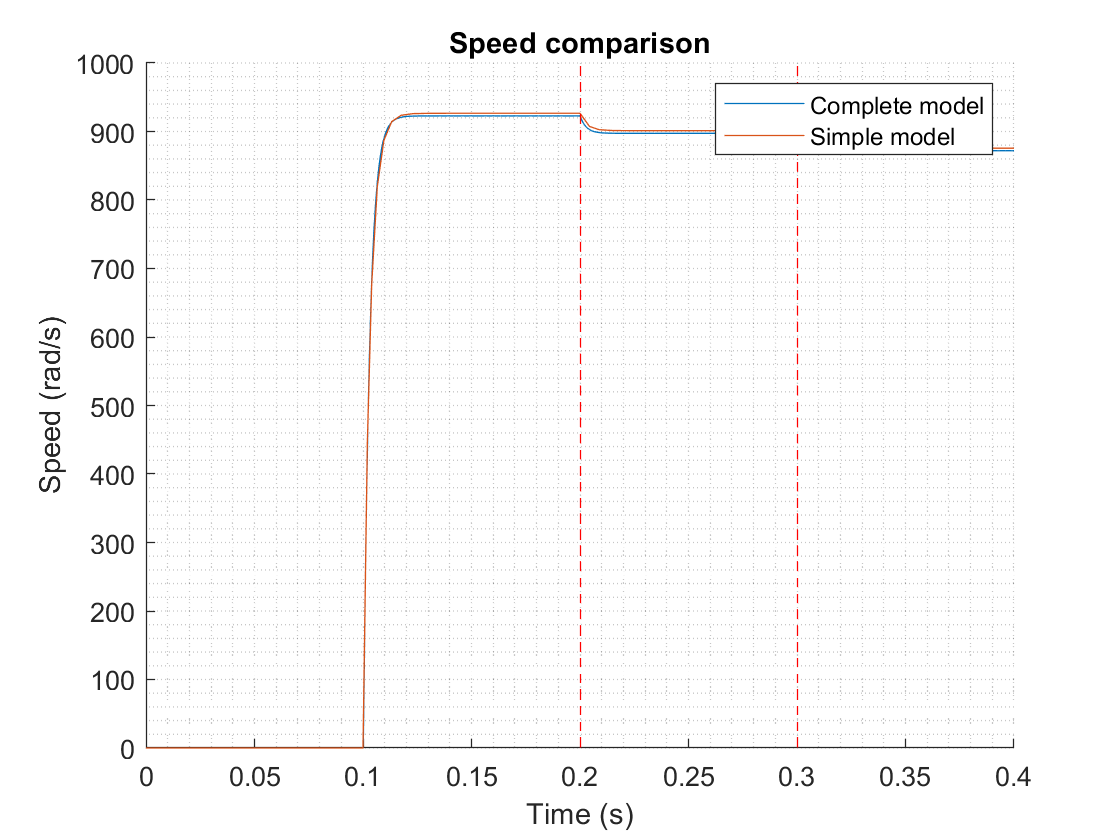
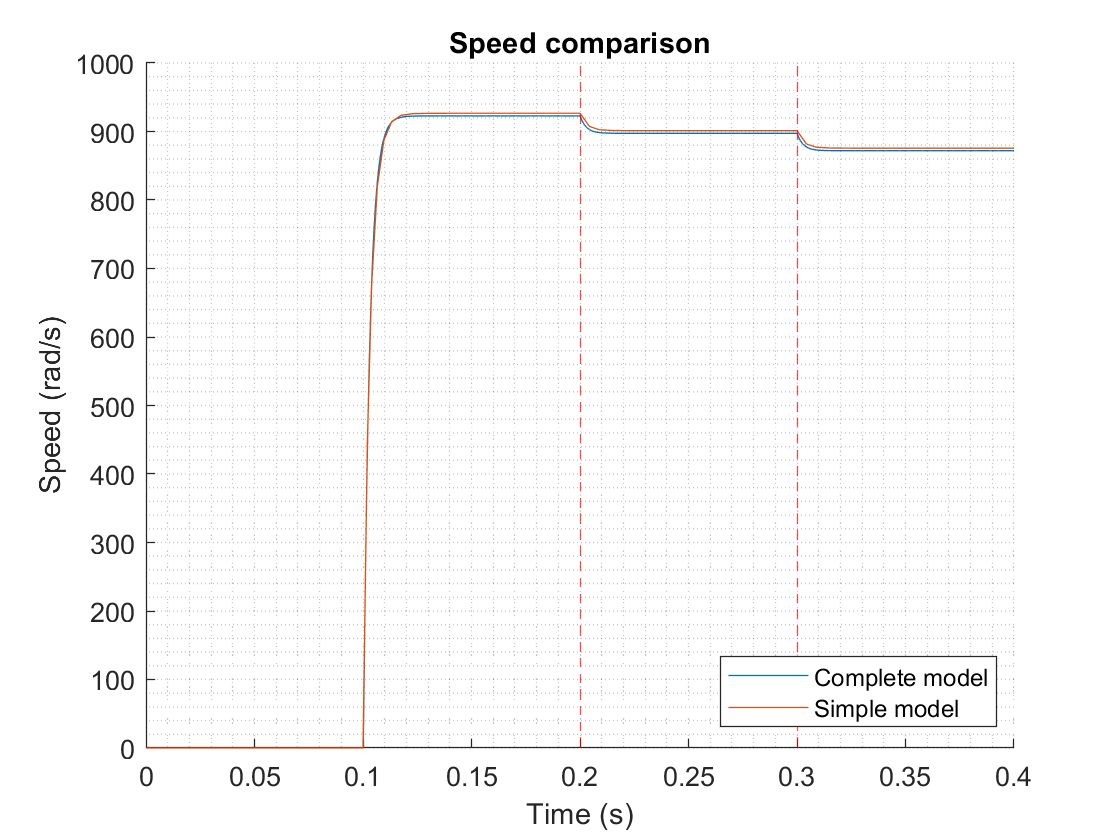
Zoomed plots

Changed region(s): [[0.625, 0.7738, 0.9062, 0.8667], [0.625, 0.0929, 0.9062, 0.1857]]

diff --git a/HW1/figure_labels.m b/HW1/figure_labels.m
@@ -1,7 +1,7 @@
-title("Complete model")
-ylabel("Current (A)")
+title("Speed comparison")
+ylabel("Speed (rad/s)")
 xlabel("Time (s)")
 grid minor
 xline(0.2, '--r')
 xline(0.3, '--r')
-legend('off')
+legend('Complete model', 'Simple model')
